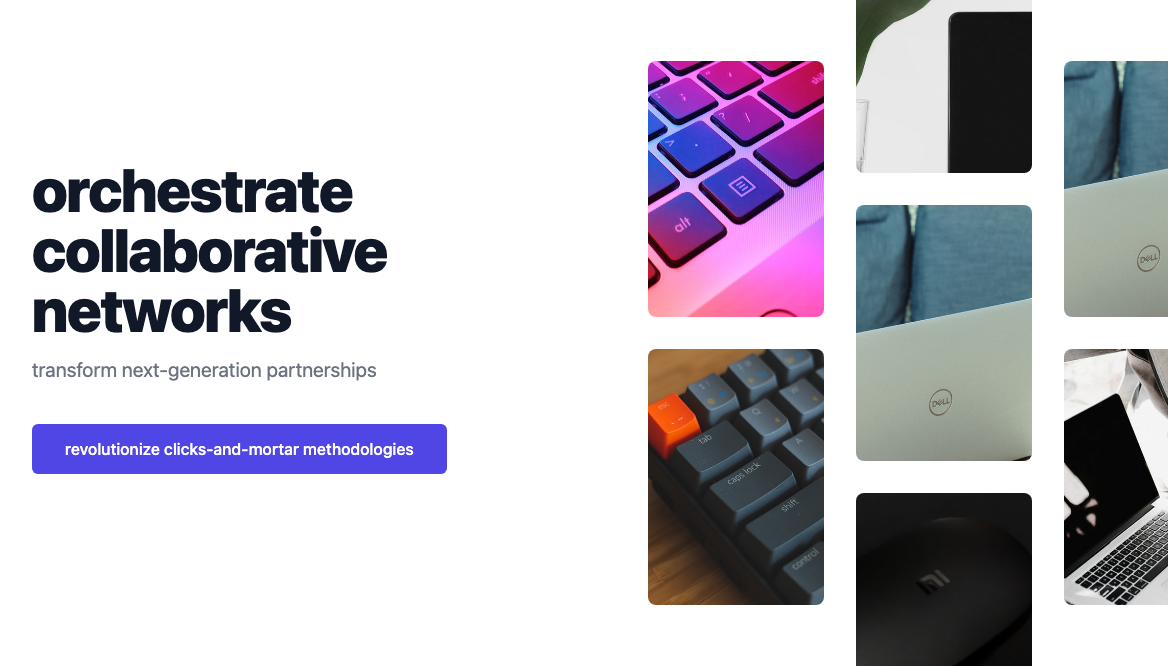
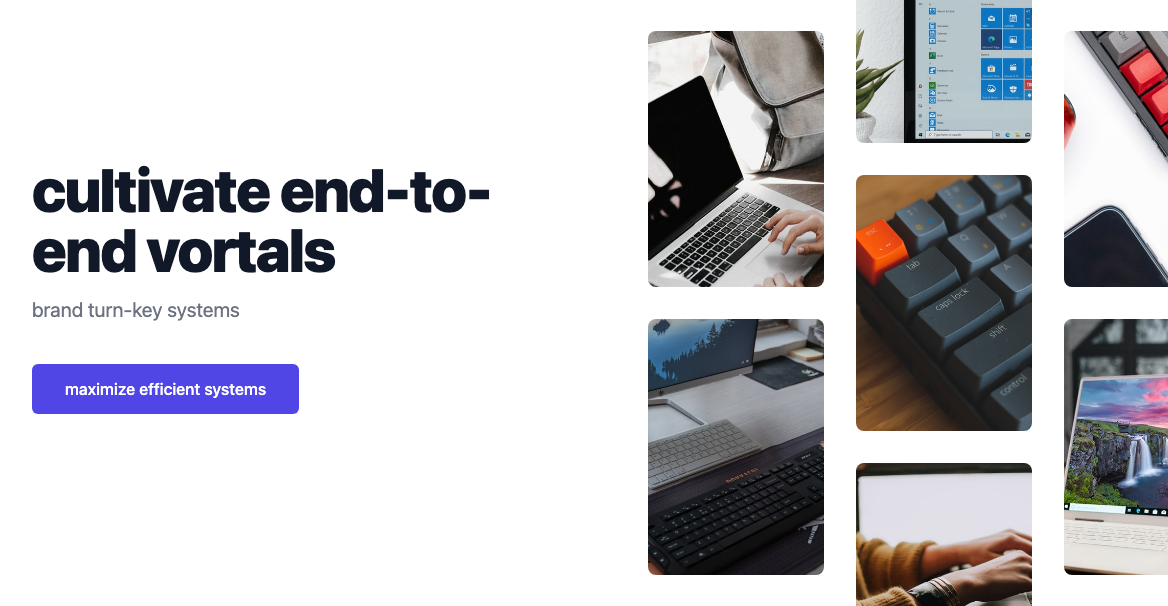
adding background color

diff --git a/.slicemachine/assets/slices/ecommerce/PromoSectionImageTiles/index.stories.js b/.slicemachine/assets/slices/ecommerce/PromoSectionImageTiles/index.stories.js
@@ -5,5 +5,5 @@ export default {
 }
 
 
-export const _DefaultSlice = () => <MyComponent slice={{"variation":"default-slice","name":"Default slice","slice_type":"promo_section_image_tiles","items":[],"primary":{"title":"orchestrate collaborative networks","subtitle":"transform next-generation partnerships","image1":{"dimensions":{"width":900,"height":500},"alt":"Placeholder image","copyright":null,"url":"https://images.unsplash.com/photo-1560762484-813fc97650a0?w=900&h=500&fit=crop"},"image2":{"dimensions":{"width":900,"height":500},"alt":"Placeholder image","copyright":null,"url":"https://images.unsplash.com/photo-1600861194802-a2b11076bc51?w=900&h=500&fit=crop"},"image3":{"dimensions":{"width":900,"height":500},"alt":"Placeholder image","copyright":null,"url":"https://images.unsplash.com/photo-1471897488648-5eae4ac6686b?w=900&h=500&fit=crop"},"image4":{"dimensions":{"width":900,"height":500},"alt":"Placeholder image","copyright":null,"url":"https://images.unsplash.com/photo-1593642633279-1796119d5482?w=900&h=500&fit=crop"},"image5":{"dimensions":{"width":900,"height":500},"alt":"Placeholder image","copyright":null,"url":"https://images.unsplash.com/photo-1600804931749-2da4ce26c869?w=900&h=500&fit=crop"},"image6":{"dimensions":{"width":900,"height":500},"alt":"Placeholder image","copyright":null,"url":"https://images.unsplash.com/photo-1593642633279-1796119d5482?w=900&h=500&fit=crop"},"image7":{"dimensions":{"width":900,"height":500},"alt":"Placeholder image","copyright":null,"url":"https://images.unsplash.com/photo-1491975474562-1f4e30bc9468?w=900&h=500&fit=crop"},"link":{"link_type":"Web","url":"http://twitter.com"},"linkLabel":"revolutionize clicks-and-mortar methodologies","personalisationid":"exploit holistic technologies"},"id":"_DefaultSlice"}} />
+export const _DefaultSlice = () => <MyComponent slice={{"variation":"default-slice","name":"Default slice","slice_type":"promo_section_image_tiles","items":[],"primary":{"title":"cultivate end-to-end vortals","subtitle":"brand turn-key systems","image1":{"dimensions":{"width":900,"height":500},"alt":"Placeholder image","copyright":null,"url":"https://images.unsplash.com/photo-1491975474562-1f4e30bc9468?w=900&h=500&fit=crop"},"image2":{"dimensions":{"width":900,"height":500},"alt":"Placeholder image","copyright":null,"url":"https://images.unsplash.com/photo-1586952518485-11b180e92764?w=900&h=500&fit=crop"},"image3":{"dimensions":{"width":900,"height":500},"alt":"Placeholder image","copyright":null,"url":"https://images.unsplash.com/photo-1587614295999-6c1c13675117?w=900&h=500&fit=crop"},"image4":{"dimensions":{"width":900,"height":500},"alt":"Placeholder image","copyright":null,"url":"https://images.unsplash.com/photo-1600861194802-a2b11076bc51?w=900&h=500&fit=crop"},"image5":{"dimensions":{"width":900,"height":500},"alt":"Placeholder image","copyright":null,"url":"https://images.unsplash.com/photo-1515378960530-7c0da6231fb1?w=900&h=500&fit=crop"},"image6":{"dimensions":{"width":900,"height":500},"alt":"Placeholder image","copyright":null,"url":"https://images.unsplash.com/photo-1587653915936-5623ea0b949a?w=900&h=500&fit=crop"},"image7":{"dimensions":{"width":900,"height":500},"alt":"Placeholder image","copyright":null,"url":"https://images.unsplash.com/photo-1593642532973-d31b6557fa68?w=900&h=500&fit=crop"},"link":{"link_type":"Web","url":"http://twitter.com"},"linkLabel":"maximize efficient systems","personalisationid":"expedite frictionless synergies","backgroundColor":"#257544"},"id":"_DefaultSlice"}} />
 _DefaultSlice.storyName = 'Default slice'

diff --git a/slices/ecommerce/PromoSectionImageTiles/index.js b/slices/ecommerce/PromoSectionImageTiles/index.js
@@ -5,7 +5,7 @@ import {linkResolver} from '../../../prismic-configuration'
 
 const PromoSectionImageTiles = ({ slice }) => (
   <section>
-    <div className="relative bg-white overflow-hidden">
+    <div className="relative overflow-hidden" style={{ backgroundColor: slice.primary.backgroundColor}}>
       <div className="pt-16 pb-80 sm:pt-24 sm:pb-40 lg:pt-40 lg:pb-48">
         <div className="relative max-w-7xl mx-auto px-4 sm:px-6 lg:px-8 sm:static">
           <div className="sm:max-w-lg">
